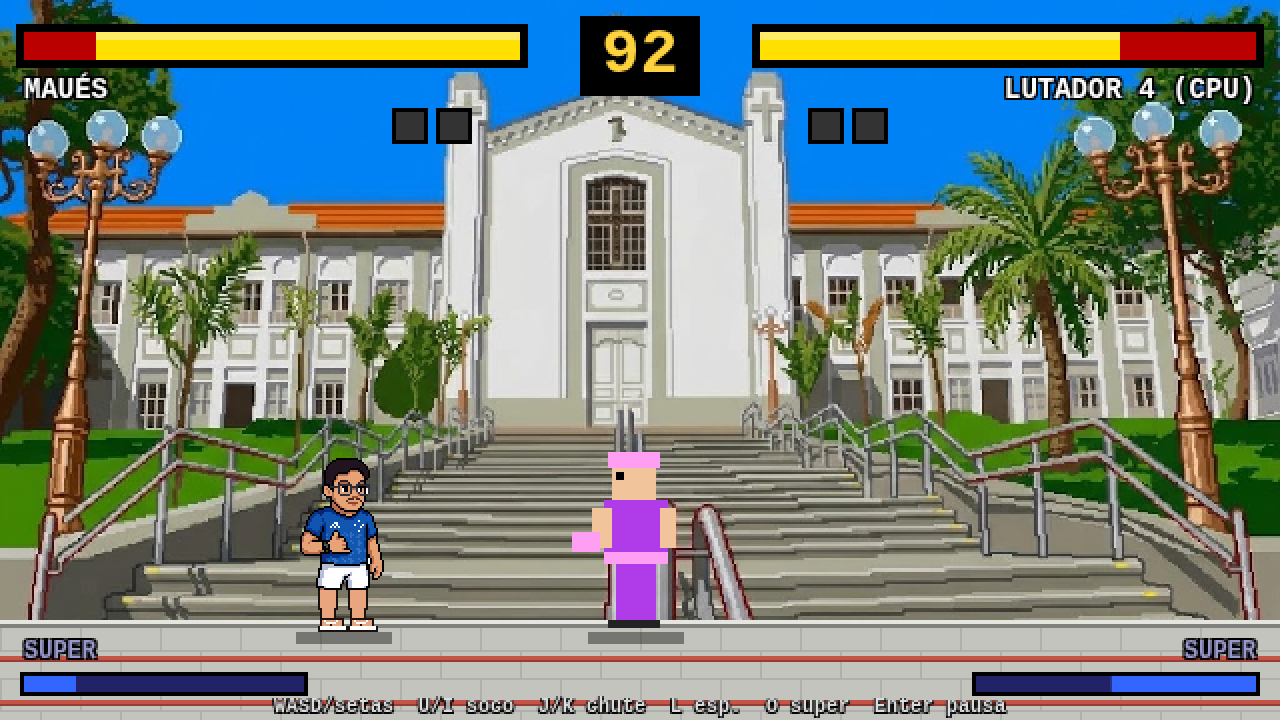
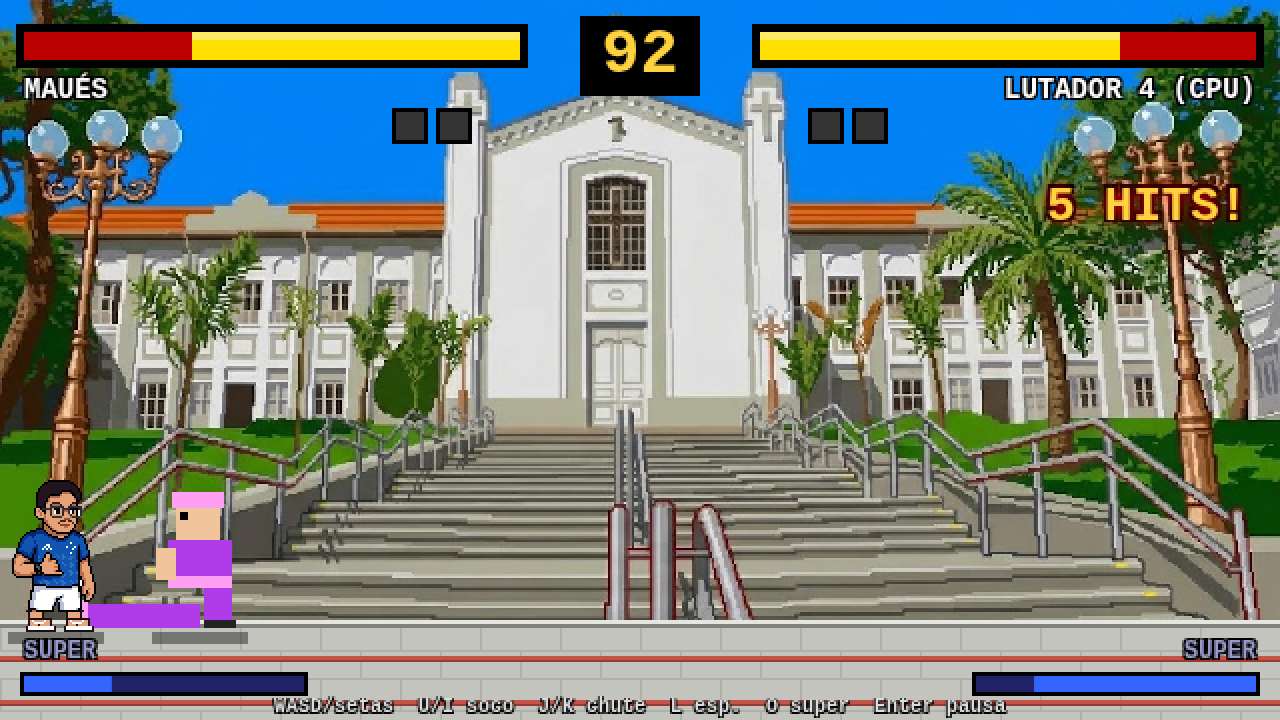
Publish build 202610211215 with the character kit.
Replace the game files from the latest zip, drop assets/joao_pedro.png, add the João reference art plus kit/ and tools/, and stamp script URLs with v=202610211215. .nojekyll stays in place.

diff --git a/js/fighter.js b/js/fighter.js
@@ -195,6 +195,7 @@ class Fighter {
     if (pose === "spin" && Math.floor(this.anim / 4) % 2) f = -f;
     g.fillStyle = "#0006"; g.fillRect(x - 12 * s, (this.inFight ? GROUND : y) + 1, 24 * s, 3);
     if (this.cfg.parts) return this.drawParts(g, x, y, f, pose);
+    if (this.img && this.cfg.fullSprite) return this.drawFull(g, x, y, f, pose);
     if (this.img && this.cfg.spriteLegs) return this.drawLegged(g, x, y, f, pose);
     g.save(); g.translate(x, y); g.scale(f * s, s); this.drawProc(g, pose); g.restore();
   }
@@ -257,6 +258,24 @@ class Fighter {
     g.restore();
   }
   // Sprite de imagem (tronco em resolução total) + pernas e chinelos desenhados; poses movem/inclinam a imagem inteira
+  // sprite inteiro (saída do tools/normalizar.py): poses por inclinação/deslocamento
+  drawFull(g, x, y, f, pose) {
+    const im = this.img, iw = im.width, ih = im.height;
+    g.save(); g.translate(x, y); g.scale(f * 0.5, 0.5);
+    if (this.flash % 4 > 1) g.globalAlpha = 0.55;
+    if (pose === "down" || pose === "fall") { g.rotate(pose === "fall" ? -1.1 : -Math.PI / 2); g.drawImage(im, -ih / 2, -iw / 2 - 4); g.restore(); return; }
+    let rot = 0, dx = 0, dy = 0, sy = 1;
+    if (["punch", "cpunch", "jpunch"].includes(pose)) { dx = 6; rot = 0.08; }
+    else if (pose === "kick" || pose === "spin" || pose === "jkick") { rot = -0.2; }
+    else if (pose === "hit") { dx = -5; rot = -0.12; }
+    else if (pose === "upper" || pose === "cupper") { rot = -0.1; dy = -6; }
+    else if (pose === "walk") dy = -(Math.floor(this.anim / 7) % 2) * 2;
+    else if (pose === "idle") dy = Math.floor(this.anim / 15) % 2;
+    if (["crouch", "cpunch", "ckick", "cblock", "cupper"].includes(pose)) sy = 0.75;
+    g.translate(dx, dy); g.scale(1, sy); g.rotate(rot); g.drawImage(im, -Math.round(iw / 2), -ih);
+    if (pose === "block" || pose === "cblock") { g.globalAlpha = 0.6; g.fillStyle = "#7fd8ff"; g.fillRect(iw / 2 + 2, -ih + 14, 4, 40); }
+    g.restore();
+  }
   drawLegged(g, x, y, f, pose) {
     const im = this.img, sk = this.cfg.skin || "#e9a57e", OL = "#1a1010";
     const iw = im.width, ih = im.height, ox = -Math.round(iw / 2), LEN = 16, top = -(ih + LEN + 4), legX = this.cfg.legX || [9, 24];

diff --git a/index.html b/index.html
@@ -12,6 +12,6 @@ canvas{image-rendering:pixelated;image-rendering:crisp-edges;background:#000}
 <div id="wrap"><canvas id="c" width="640" height="360"></canvas></div>
 <div id="touch"><div><span class="tb" data-k="ArrowLeft">◀</span><span class="tb" data-k="ArrowUp">▲</span><span class="tb" data-k="ArrowDown">▼</span><span class="tb" data-k="ArrowRight">▶</span></div>
 <div><span class="tb" data-k="KeyU">SF</span><span class="tb" data-k="KeyI">SF+</span><span class="tb" data-k="KeyJ">CF</span><span class="tb" data-k="KeyK">CF+</span><span class="tb" data-k="KeyL">ESP</span><span class="tb" data-k="KeyO">SUP</span><span class="tb" data-k="Enter">OK</span></div></div>
-<script>window.BUILD="202610211156";</script><script src="js/characters.js?v=202610211156"></script><script src="js/stages.js?v=202610211156"></script><script src="js/audio.js?v=202610211156"></script><script src="js/input.js?v=202610211156"></script>
-<script src="js/fighter.js?v=202610211156"></script><script src="js/ai.js?v=202610211156"></script><script src="js/game.js?v=202610211156"></script>
+<script>window.BUILD="202610211215";</script><script src="js/characters.js?v=202610211215"></script><script src="js/stages.js?v=202610211215"></script><script src="js/audio.js?v=202610211215"></script><script src="js/input.js?v=202610211215"></script>
+<script src="js/fighter.js?v=202610211215"></script><script src="js/ai.js?v=202610211215"></script><script src="js/game.js?v=202610211215"></script>
 </body></html>

diff --git a/js/characters.js b/js/characters.js
@@ -10,7 +10,7 @@ const CHARACTERS = [
     sprite: "assets/maues.png", spriteLegs: true, skin: "#e9a57e", legX: [9, 24], punchSprite: "assets/maues_punch.png", projectile: "chinelo",
     specials: { fireball: "CHINELADA", dp: "GANCHO DO MAUÉS", spin: "FURACÃO DE CHINELO", super: "SUPER CHINELADA" },
     quote: "Chinelo branco não perdoa ninguém!" },
-  { name: "João Pedro", color: "#4a5530", accent: "#3fa34d", stats: { speed: 4, power: 8, health: 9 }, sprite: null, parts: "assets/joao/", partsMeta: { ox: -13, legX: [1, 12] }, projectile: "granada",
+  { name: "João Pedro", color: "#4a5530", accent: "#3fa34d", stats: { speed: 4, power: 8, health: 9 }, sprite: null, parts: "assets/joao/", partsMeta: { ox: -21, legX: [8, 22] }, projectile: "granada",
     specials: { fireball: "GRANADA", dp: "GANCHO DE COMANDO", spin: "RAJADA DE COTURNO", super: "BOMBARDEIO TÁTICO" },
     quote: "Missão cumprida. Próximo da fila!" },
   { name: "Lutador 3", color: "#3bd16f", accent: "#1a1a1a", stats: { speed: 4, power: 9, health: 8 }, sprite: null,

diff --git a/tools/molde.py b/tools/molde.py
@@ -1,0 +1,83 @@
+# Gera kit/molde_base.png e kit/molde_comparacao.png
+# Manequim nas proporções do Maués em jogo (corpo 43x66 + pernas = ~45x88 px de arte)
+from PIL import Image, ImageDraw, ImageFont
+OL=(26,16,16); F=(205,205,205); S=(165,165,165); WH=(255,255,255)
+def manequim():
+    m=Image.new('RGB',(45,90),WH); d=ImageDraw.Draw(m); o=1
+    R=lambda b,c: d.rectangle([b[0]+o,b[1]+o,b[2]+o,b[3]+o],fill=c,outline=OL)
+    R((10,64,19,82),F); R((24,64,33,82),F)            # pernas
+    R((9,82,21,86),S); R((23,82,35,86),S)              # pés
+    R((8,47,35,65),S)                                  # quadril/short
+    d.polygon([(8+o,24+o),(35+o,24+o),(36+o,48+o),(7+o,48+o)],fill=F,outline=OL)  # tronco
+    R((1,26,7,55),F); R((36,26,42,55),F)               # braços soltos ao lado
+    R((1,55,7,60),S); R((36,55,42,60),S)               # mãos
+    R((18,19,27,25),F)                                 # pescoço
+    d.ellipse([12+o,0+o,34+o,23+o],fill=F,outline=OL)  # cabeça (mesmo tamanho do Maués)
+    R((34,10,36,13),F)                                 # nariz -> virado 3/4 p/ direita
+    d.point((30+o,9+o),fill=OL); d.point((31+o,9+o),fill=OL)  # olho
+    return m
+def maues():
+    im=Image.open('assets/maues.png').convert('RGBA'); sk=(233,165,126); c=Image.new('RGBA',(45,90),(0,0,0,0)); d=ImageDraw.Draw(c)
+    ly=66; R=lambda x,y,w,h,col: d.rectangle([x,y,x+w-1,y+h-1],fill=col)
+    for lx in (10,25):
+        L=16; R(lx,ly,10,L-5,OL);R(lx+1,ly,8,L-5,sk);R(lx+1,ly+L-6,8,6,OL);R(lx+2,ly+L-6,6,6,sk)
+        fy=ly+L;R(lx+1,fy-1,12,5,OL);R(lx+2,fy,10,3,sk);R(lx,fy+3,15,3,OL);R(lx+1,fy+3,13,2,WH)
+    c.alpha_composite(im,(1,0)); return c
+def up(im,k):return im.resize((im.width*k,im.height*k),Image.NEAREST)
+fnt=lambda s: ImageFont.truetype('/usr/share/fonts/truetype/dejavu/DejaVuSans-Bold.ttf',s)
+m=manequim(); m.save('kit/molde_1x.png')
+K=10; big=up(m,K).convert('RGB'); g=ImageDraw.Draw(big)
+for x in range(0,big.width,K): g.line([x,0,x,big.height],fill=(232,232,240))
+for y in range(0,big.height,K): g.line([0,y,big.width,y],fill=(232,232,240))
+big=Image.composite(up(m,K),big,up(m.convert('L').point(lambda v:255 if v<250 else 0),K))  # grade só no fundo
+P=Image.new('RGB',(big.width+560,big.height+330),WH); P.paste(big,(60,80)); d=ImageDraw.Draw(P)
+d.text((20,15),"MOLDE BASE — GUERRA no P.C   (1 quadrado = 1 pixel de arte)",fill=OL,font=fnt(24))
+red=(220,30,30); X0=60; Y0=80; gx=X0+big.width+20
+def vg(y1,y2,txt,xx):
+    d.line([xx,Y0+y1*K,xx,Y0+y2*K],fill=red,width=3)
+    for yy in (y1,y2): d.line([xx-8,Y0+yy*K,xx+8,Y0+yy*K],fill=red,width=3)
+    d.text((xx+14,Y0+(y1+y2)/2*K-14),txt,fill=red,font=fnt(22))
+vg(1,25,"cabeça: 24 px",gx); vg(25,66,"tronco+short: 41 px",gx); vg(66,88,"pernas+pés: 22 px",gx); vg(1,88,"",gx+290)
+d.text((gx+305,Y0+40*K),"altura\ntotal:\n88 px",fill=red,font=fnt(24))
+d.line([X0+2*K,Y0-8,X0+43*K,Y0-8],fill=(30,90,220),width=3); d.text((X0+5*K,Y0-40),"ombros/braços: 41 px · cabeça: 23 px",fill=(30,90,220),font=fnt(20))
+yb=Y0+big.height+30; d.text((60,yb),"tamanho real 1x  e  2x:",fill=OL,font=fnt(20)); P.paste(m,(330,yb)); P.paste(up(m,2),(400,yb))
+P.save('kit/molde_base.png')
+# comparação
+row=[('MOLDE',m.convert('RGBA')),('MAUÉS',maues()),('JOÃO PEDRO',Image.open('assets/joao/win.png').convert('RGBA'))]
+K=6; C=Image.new('RGB',(3*45*K+4*40,90*K+120),WH); d=ImageDraw.Draw(C)
+for i,(n,im) in enumerate(row):
+    x=40+i*(45*K+40); y=60+(90-im.height-(0 if n!='JOÃO PEDRO' else 2))*K
+    C.paste(up(im,K),(x+(45-im.width)//2*K,y),up(im,K)); d.text((x+40,15),n,fill=OL,font=fnt(30))
+d.line([0,60+88*K,C.width,60+88*K],fill=(220,30,30),width=2); d.line([0,60+K,C.width,60+K],fill=(220,30,30),width=2)
+C.save('kit/molde_comparacao.png')
+# --- variantes permitidas (silhueta livre, estilo igual) ---
+def var(kind):
+    m=Image.new('RGB',(61,104),WH); d=ImageDraw.Draw(m); o=8; oy=14
+    R=lambda b,c: d.rectangle([b[0]+o,b[1]+oy,b[2]+o,b[3]+oy],fill=c,outline=OL)
+    E=lambda b,c: d.ellipse([b[0]+o,b[1]+oy,b[2]+o,b[3]+oy],fill=c,outline=OL)
+    skin=(233,165,126); sh=(196,126,92)
+    R((10,64,19,82),skin); R((24,64,33,82),skin); R((9,82,21,86),(60,60,70)); R((23,82,35,86),(60,60,70))
+    shirt={'barriga':(220,60,60),'cabelo':(250,200,40),'bone':(40,40,48)}[kind]
+    R((8,47,35,65),(40,70,140))
+    if kind=='barriga': E((2,26,42,62),shirt); d.arc([12+o,40+oy,34+o,60+oy],20,160,fill=(170,40,40))
+    else: d.polygon([(8+o,24+oy),(35+o,24+oy),(36+o,48+oy),(7+o,48+oy)],fill=shirt,outline=OL)
+    ax=(-3,40) if kind=='barriga' else (1,36)
+    R((ax[0],26,ax[0]+6,55),skin); R((ax[1],26,ax[1]+6,55),skin)
+    R((18,19,27,25),skin)
+    if kind=='cabelo': E((4,-14,42,16),(40,24,16))
+    E((12,0,34,23),skin); R((34,10,36,13),skin)
+    d.point((30+o,9+oy),fill=OL); d.point((31+o,9+oy),fill=OL)
+    d.line([25+o,18+oy,32+o,18+oy],fill=sh)
+    if kind=='cabelo': d.chord([10+o,-4+oy,36+o,12+oy],180,360,fill=(40,24,16),outline=OL)
+    if kind=='barriga': d.rectangle([20+o,14+oy,34+o,23+oy],fill=(60,40,30))  # barba
+    if kind=='bone':
+        d.chord([11+o,-2+oy,35+o,14+oy],180,360,fill=(200,30,30),outline=OL); R((30,4,42,7),(200,30,30))
+        d.arc([14+o,20+oy,32+o,40+oy],20,160,fill=(240,200,40),width=2)
+    return m
+V=[('MOLDE',m)]+[(n,var(k)) for n,k in (('BARRIGA',"barriga"),('CABELÃO',"cabelo"),('BONÉ+CORRENTE',"bone"))]
+K=6; C=Image.new('RGB',(4*61*K+5*30,104*K+200),WH); d=ImageDraw.Draw(C)
+for i,(n,im) in enumerate(V):
+    x=30+i*(61*K+30); y=80+(104-im.height)*K if n!='MOLDE' else 80+14*K-K; C.paste(up(im,K),(x+((61-im.width)//2)*K,y)); d.text((x+30,20),n,fill=OL,font=fnt(30))
+gy=80+(14+87)*K; d.line([0,gy,C.width,gy],fill=(220,30,30),width=2); d.line([0,80+13*K,C.width,80+13*K],fill=(220,30,30),width=2)
+d.text((30,C.height-80),"Silhueta pode mudar (barriga, cabelo, chapéu, acessórios). O ESTILO não: grade, contorno preto 1px,\n2-3 tons por cor, cabeça grande, pés na mesma linha, virado p/ direita, braços para baixo, fundo branco.",fill=OL,font=fnt(20))
+C.save('kit/variacoes_permitidas.png')

diff --git a/tools/normalizar.py b/tools/normalizar.py
@@ -1,0 +1,91 @@
+#!/usr/bin/env python3
+"""Normalizador de sprites — GUERRA no P.C
+Uso:  python3 tools/normalizar.py ENTRADA.png assets/NOME.png [--altura 88] [--cores 24] [--topo-extra 0.25]
+  1. remove o fundo (branco/cor uniforme das bordas, por flood-fill)
+  2. recorta no personagem
+  3. detecta a grade de pixel-art (se a imagem veio ampliada) e reduz para 1 px = 1 pixel de arte
+  4. escala pela ALTURA (pés até o topo da cabeça) para --altura px; cabelo alto/chapéu
+     acima da cabeça pode passar disso (até --topo-extra, 25% por padrão). A largura é livre.
+  5. limpa a paleta (no máx. --cores cores, sem semitons de antialias)
+  6. garante contorno preto de 1 px em volta da silhueta
+Saída: PNG transparente pronto para `sprite:` com `fullSprite:true` em js/characters.js.
+"""
+import sys, argparse
+from collections import deque
+from PIL import Image
+OL=(26,16,16,255)
+def tira_fundo(im,tol=40):
+    im=im.convert('RGBA'); W,H=im.size; p=im.load()
+    bg=p[0,0]; seen=set(); q=deque([(x,y) for x in range(W) for y in (0,H-1)]+[(x,y) for y in range(H) for x in (0,W-1)])
+    near=lambda c: sum(abs(c[i]-bg[i]) for i in range(3))<tol or c[3]<20
+    while q:
+        x,y=q.popleft()
+        if (x,y) in seen or not(0<=x<W and 0<=y<H): continue
+        seen.add((x,y))
+        if not near(p[x,y]): continue
+        p[x,y]=(0,0,0,0); q.extend(((x+1,y),(x-1,y),(x,y+1),(x,y-1)))
+    return im.crop(im.getbbox())
+def grade(img):
+    """detecta a grade de pixel-art ampliada (período fracionário, ex.: 11.38) pela coerência de fase
+    das bordas. Retorna (k, fase_x, fase_y) ou None se a imagem já estiver em 1x."""
+    import numpy as np
+    a=np.array(img.convert('RGBA')).astype(float); L=a[...,:3].mean(2)*(a[...,3]>127)
+    xs=np.nonzero(np.abs(np.diff(L,axis=1))>40)[1]+1.0; ys=np.nonzero(np.abs(np.diff(L,axis=0))>40)[0]+1.0
+    if len(xs)<50 or len(ys)<50: return None
+    best=None
+    for k in np.arange(3,30,0.02):
+        zx=np.exp(2j*np.pi*xs/k).mean(); zy=np.exp(2j*np.pi*ys/k).mean(); sc=min(abs(zx),abs(zy))
+        if best is None or sc>best[0]+0.02 or (sc>0.6 and sc>=best[0]-0.02 and k>best[1]*1.5): best=(sc,k,zx,zy)
+    sc,k,zx,zy=best
+    if sc<0.6: return None
+    return k,(np.angle(zx)/(2*np.pi)*k)%k,(np.angle(zy)/(2*np.pi)*k)%k
+def nativo(img,k,fx,fy):
+    """amostra a cor dominante do miolo de cada célula da grade -> 1 px = 1 pixel de arte"""
+    import numpy as np
+    a=np.array(img.convert('RGBA')); H,W=a.shape[:2]; nx=int((W-fx)//k); ny=int((H-fy)//k); out=np.zeros((ny,nx,4),np.uint8); r=max(1,int(k*0.25))
+    for j in range(ny):
+        for i in range(nx):
+            cx,cy=int(fx+(i+0.5)*k),int(fy+(j+0.5)*k); c=a[cy-r:cy+r+1,cx-r:cx+r+1].reshape(-1,4)
+            if (c[:,3]>127).mean()<0.5: continue
+            out[j,i,:3]=np.median(c[c[:,3]>127][:,:3],0); out[j,i,3]=255
+    o=Image.fromarray(out,'RGBA'); return o.crop(o.getbbox())
+def amostra(im,esc):
+    """reduz uma imagem grande tomando a cor MAIS COMUM de cada célula (pixels limpos, sem mistura)"""
+    import numpy as np
+    a=np.array(im); H,W=a.shape[:2]; nh,nw=max(1,round(H*esc)),max(1,round(W*esc)); out=np.zeros((nh,nw,4),np.uint8)
+    for j in range(nh):
+        y0,y1=int(j/esc),max(int(j/esc)+1,int((j+1)/esc))
+        for i in range(nw):
+            x0,x1=int(i/esc),max(int(i/esc)+1,int((i+1)/esc))
+            c=a[y0:y1,x0:x1].reshape(-1,4); c=c[(c.shape[0]//4):] if False else c
+            cy,cx=(y1-y0)//4,(x1-x0)//4; c=a[y0+cy:y1-cy or y1,x0+cx:x1-cx or x1].reshape(-1,4)   # miolo da célula
+            if (c[:,3]>127).mean()<0.5: continue
+            c=c[c[:,3]>127]; q=(c[:,:3]//12).astype(np.int32); k=q[:,0]*10000+q[:,1]*100+q[:,2]
+            v,n=np.unique(k,return_counts=True); sel=c[k==v[n.argmax()]][:,:3]
+            out[j,i,:3]=np.median(sel,0); out[j,i,3]=255
+    return Image.fromarray(out,'RGBA')
+def contorno(im):
+    W,H=im.size; o=Image.new('RGBA',(W+2,H+2)); o.paste(im,(1,1)); a=o.load(); b=o.copy(); c=b.load()
+    for y in range(H+2):
+        for x in range(W+2):
+            if a[x,y][3]==0 and any(0<=x+i<W+2 and 0<=y+j<H+2 and a[x+i,y+j][3] and sum(a[x+i,y+j][:3])>200 for i,j in((1,0),(-1,0),(0,1),(0,-1))): c[x,y]=OL  # só onde a borda não é escura
+    return b.crop(b.getbbox())
+def main():
+    ap=argparse.ArgumentParser(); ap.add_argument('entrada'); ap.add_argument('saida')
+    ap.add_argument('--altura',type=int,default=88); ap.add_argument('--cores',type=int,default=24)
+    ap.add_argument('--topo-extra',type=float,default=0.25,help='fração da altura que cabelo/chapéu pode ultrapassar')
+    ap.add_argument('--cabeca',type=int,default=0,help='(opcional) linha do topo da cabeça na imagem já recortada, ignorando cabelo/chapéu')
+    ap.add_argument('--tolerancia',type=float,default=0.2,help='se a grade nativa der altura dentro de ±20%% do alvo, mantém 1:1 (pixels originais)')
+    a=ap.parse_args()
+    im=tira_fundo(Image.open(a.entrada)); G=grade(im); k=1
+    if G: k=G[0]; im=nativo(im,*G)
+    corpo=im.height-(round(a.cabeca/k) if a.cabeca else 0)       # pés -> topo da cabeça
+    esc=a.altura/corpo
+    if G and abs(esc-1)<=a.tolerancia: esc=1   # mesma densidade do Maués: não reamostra
+    if im.height*esc>a.altura*(1+a.topo_extra): esc=a.altura*(1+a.topo_extra)/im.height
+    im=im.resize((max(1,round(im.width*esc)),max(1,round(im.height*esc))),Image.NEAREST) if esc>=0.7 else amostra(im,esc)  # imagem grande: cor dominante de cada célula
+    al=im.getchannel('A').point(lambda v:255 if v>=128 else 0)
+    rgb=im.convert('RGB').quantize(colors=a.cores,method=Image.MEDIANCUT,dither=Image.NONE).convert('RGBA'); rgb.putalpha(al)
+    out=contorno(rgb); out.save(a.saida)
+    print(f"ok {a.saida}: {out.size[0]}x{out.size[1]} px (grade detectada {k:.2f}px, escala {esc:.2f})")
+if __name__=='__main__': main()

diff --git a/tools/gerar_joao.py b/tools/gerar_joao.py
@@ -1,0 +1,55 @@
+from PIL import Image
+S=Image.open('assets/joao_ref_normalizado.png').convert('RGBA'); W,H=S.size; OL=(26,16,16,255); PADR=34; PADT=14
+HIP=60
+def crop(b): return S.crop(b)
+legL=crop((8,HIP,23,77)); legR=crop((22,HIP,39,77))
+# remove a outra perna que vaza em cada recorte
+for im,keep in ((legL,lambda x,y:x<=14),(legR,lambda x,y:x>=1 and not(y<4 and x>=13))):
+    p=im.load()
+    for y in range(im.height):
+        for x in range(im.width):
+            if not keep(x,y): p[x,y]=(0,0,0,0)
+up=crop((0,0,W,HIP+2))
+front=crop((34,30,42,60)); back=crop((0,31,12,60))
+body=up.copy(); p=body.load()
+for y in range(34,HIP+2):
+    for x in range(35,W): p[x,y]=(0,0,0,0)
+    for x in range(0,10): p[x,y]=(0,0,0,0)
+# limpa mãos que sobram por baixo
+for y in range(52,HIP+2):
+    for x in range(0,12): p[x,y]=(0,0,0,0)
+    for x in range(33,W): p[x,y]=(0,0,0,0)
+def outline(im):
+    a=im.load(); o=im.copy(); b=o.load()
+    for y in range(im.height):
+        for x in range(im.width):
+            if a[x,y][3]==0 and any(0<=x+i<im.width and 0<=y+j<im.height and a[x+i,y+j][3] and sum(a[x+i,y+j][:3])>200 for i,j in((1,0),(-1,0),(0,1),(0,-1))): b[x,y]=OL
+    return o
+def canvas(): return Image.new('RGBA',(W+PADR,HIP+2+PADT))
+def put(c,im,x,y): c.alpha_composite(im,(x,y+PADT))
+fa_up=front.crop((0,0,8,12)); fa_lo=front.crop((0,10,8,30))   # braço (manga) / antebraço+mão
+ba_up=back.crop((0,0,12,12)); ba_lo=back.crop((0,10,12,29))
+R90=lambda im:im.transpose(Image.ROTATE_90)    # aponta p/ direita? (topo->esquerda)
+UPV=lambda im: im.transpose(Image.ROTATE_180).transpose(Image.FLIP_LEFT_RIGHT)   # antebraço apontando p/ cima (mão no topo)
+def pose(kind):
+    c=canvas()
+    put(c,ba_up,0,31)
+    put(c,body,0,0)
+    if kind in('guard','punch','upper'): put(c,UPV(ba_lo).crop((3,0,12,19)),27,24)   # punho de trás na frente do peito
+    if kind=='block': put(c,UPV(ba_lo).crop((3,0,12,19)),28,10)
+    if kind=='guard':  put(c,UPV(fa_lo),36,18)                         # punho na altura do queixo
+    elif kind=='punch': put(c,front.transpose(Image.ROTATE_270),35,30)  # braço esticado
+    elif kind=='upper': put(c,UPV(front),33,1)                          # punho p/ cima
+    elif kind=='block': put(c,UPV(fa_lo),35,6)                          # antebraço protegendo o rosto
+    return outline(c)
+import os; d='assets/joao/'
+for f in os.listdir(d): os.remove(d+f)
+for k in('guard','punch','upper','block'): pose(k).save(d+k+'.png')
+legL.save(d+'leg_l.png'); legR.save(d+'leg_r.png')
+S.save(d+'win.png')   # vitória: arte original, braços para baixo
+big=Image.new('RGBA',(5*(W+PADR)*4,(HIP+2+PADT+17)*4),'white')
+for i,k in enumerate(['guard','punch','upper','block','win']):
+    im=Image.open(d+k+'.png'); t=Image.new('RGBA',(W+PADR,HIP+PADT+19)); t.alpha_composite(im,(0,0) if k=='win' else (0,0))
+    if k!='win': t.alpha_composite(legR,(22,PADT+HIP)); t.alpha_composite(legL,(8,PADT+HIP)); t.alpha_composite(im,(0,0))
+    big.alpha_composite(t.resize((t.width*4,t.height*4),0),(i*(W+PADR)*4,0))
+big.save('/tmp/jp3sheet.png')

diff --git a/README.md b/README.md
@@ -47,7 +47,7 @@ pode receber no máximo 2 golpes de "juggle" (gancho/super). Melhor de 3 rounds,
 Campos de cada lutador: `name`, `color`/`accent`, `stats` (1-10), `specials` (nomes), `quote` (frase de vitória), `projectile`
 (`chinelo`, `granada` ou padrão), `boss`, `scale`, e o visual:
 - `sprite` + `spriteLegs: true` + `punchSprite` (Maués): tronco com os pixels exatos da arte original (`assets/maues.png`), pernas e chinelos brancos desenhados pelo jogo, e `assets/maues_punch.png` com o braço esticado no mesmo estilo para os socos.
-- `parts: "assets/joao/"` (João Pedro): pixels da arte original divididos em partes — tronco em guarda/soco/gancho/defesa (braços de luta pintados no mesmo camuflado), pernas `leg_l`/`leg_r` que giram no quadril para chutes, e `win.png` (braços cruzados originais) para vitória.
+- `parts: "assets/joao/"` (João Pedro): pixels da arte original divididos em partes — tronco em guarda/soco/gancho/defesa (braços de luta pintados no mesmo camuflado), pernas `leg_l`/`leg_r` que giram no quadril para chutes, e `win.png` (arte original com braços para baixo) para vitória.
 - `sprite: "assets/arquivo.png"`: imagem própria (fundo transparente, virada para a direita). Com `spriteLegs: true` a imagem é só do tronco e o jogo desenha pernas.
 - nenhum dos dois: boneco procedural simples (como Lutador 3/4).
 
@@ -65,7 +65,17 @@ Campos de cada lutador: `name`, `color`/`accent`, `stats` (1-10), `specials` (no
 No menu, escolha **LUTA LIVRE (VS CPU)**. Primeiro escolha seu lutador, depois **ESCOLHA O ADVERSÁRIO** (cursor "CPU") — inclusive **ALEATÓRIO**, sorteado na hora da luta. Depois da luta você volta à seleção. O modo Arcade continua igual.
 
 ## João Pedro (sprite)
-Extraído na grade nativa da arte original (`assets/joao/`: guard, punch, upper, block, leg_l, leg_r, win). Pernas são peças separadas; a vitória usa a pose original de braços cruzados. Ajuste em `partsMeta` (`ox`, `legX`) no `js/characters.js`.
+Gerado com o kit no Gemini (`assets/joao_ref_gemini.png`), normalizado com `tools/normalizar.py` na mesma grade do Maués (`assets/joao_ref_normalizado.png`, 42x77) e dividido em peças por `tools/gerar_joao.py` (`assets/joao/`: guard, punch, upper, block, leg_l, leg_r, win). Cabeça, corpo e coturnos são os pixels originais; os braços de luta são os braços originais reposicionados. A vitória usa a arte original com braços para baixo. Ajuste em `partsMeta` (`ox`, `legX`) no `js/characters.js`.
 
 ## Cache / deploy
 Todos os scripts e imagens usam `?v=BUILD` (definido em `index.html`, `window.BUILD`). **Troque o valor de BUILD (e dos `?v=` nas tags script) a cada deploy**, senão navegadores podem misturar JS antigo do cache com JS novo.
+
+## Kit de padronização de personagens (`kit/`)
+Molde, exemplos e prompt para o Gemini: veja `kit/LEIA-ME.txt`. O kit fixa o estilo (grade, contorno, tons, proporção, pose, fundo branco), não a silhueta.
+- `tools/normalizar.py ENTRADA.png assets/NOME.png [--altura 88] [--cores 24] [--cabeca N]` faz o seguinte:
+  - tira o fundo e recorta;
+  - reduz a grade de pixel art;
+  - escala pela altura;
+  - limpa a paleta e refaz o contorno de 1 px.
+- No `js/characters.js`, use `sprite: "assets/NOME.png", fullSprite: true`. O personagem é desenhado inteiro, e as poses vêm de inclinação e deslocamento.
+- `tools/molde.py` regenera as imagens do kit.
